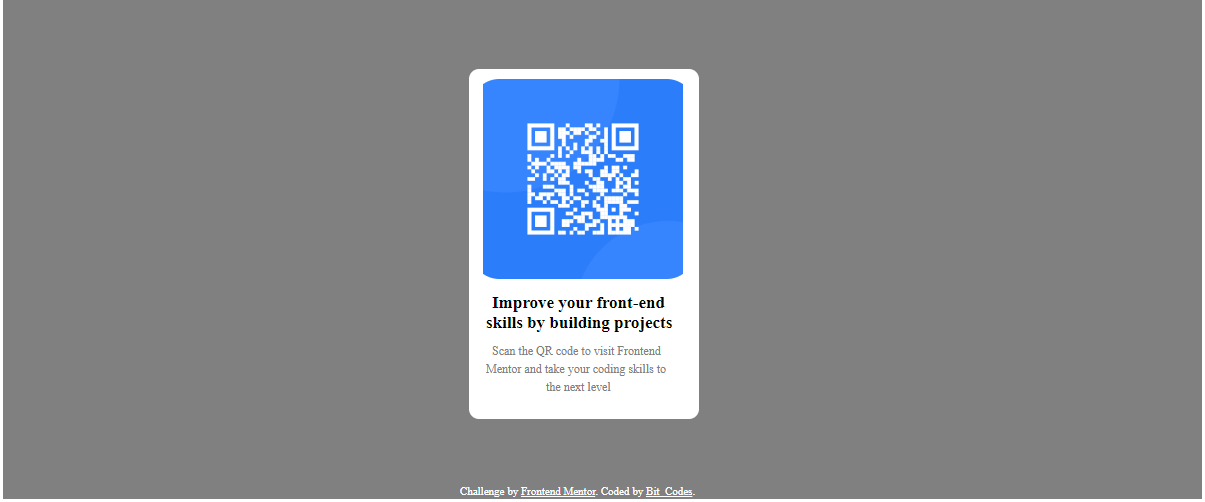
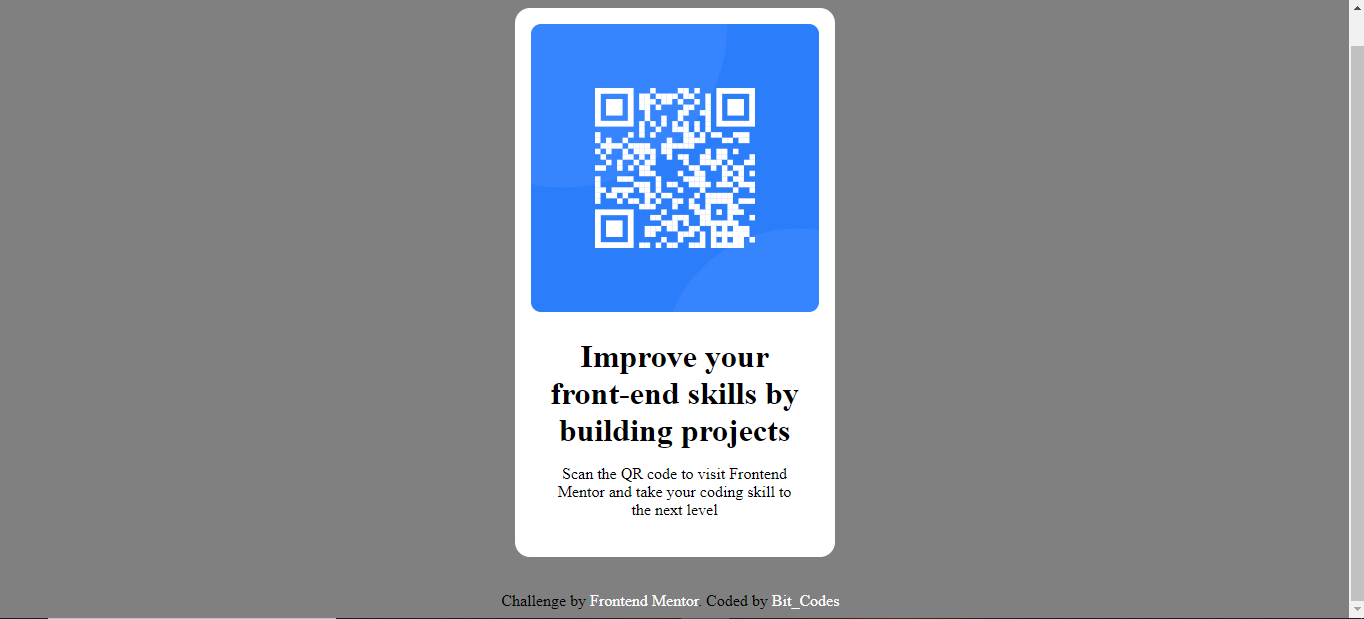
necessary adjustment made

Changed region(s): [[0.3685, 0.0, 0.6141, 0.9263], [0.0, 0.0, 1.0, 1.0]]

diff --git a/index.html b/index.html
@@ -10,91 +10,71 @@
 
   <title>Frontend Mentor | QR code component</title>
 
-  <!-- Feel free to remove these styles or customise in your own stylesheet 👍 -->
   <style>
-    .attribution {
-      font-size: 11px;
+    body {
+      background-color: gray;
+    }
+
+    .container {
+      min-height: 100vh;
+      display: flex;
+      align-items: center;
+      justify-content: center;
+    }
+
+    .card {
+      max-width: 20rem;
+      background-color: hsl(0, 0%, 100%);
+      border-radius: 0.938rem;
       text-align: center;
     }
 
-    .attribution a {
-      color: hsl(228, 45%, 44%);
-      position: relative;
-    }
-
-    .grey-div {
+    .card-image {
       width: 90%;
-      height: 500px;
-      background-color: grey;
-      margin: auto;
-      margin-top: 50px;
-      position: relative;
+      border-radius: 0.625rem;
+      margin: 5%;
     }
 
-    .white-div {
-      width: 230px;
-      height: 350px;
-      background-color: white;
-      position: relative;
-      bottom: 430px;
-      left: 40%;
-      border-radius: 10px;
-      position: relative;
+    .card-heading {
+      margin: 2% 5%;
+      padding: 0% 5%;
     }
 
-
-    img {
-      height: 200px;
-      width: 220px;
-      object-fit: contain;
-      position: relative;
-      bottom: 770px;
-      left: 537px;
-      border-radius: 12%;
+    .card-description {
+      margin: 5% 5% 12%;
+      padding: 0% 5%;
     }
 
-    .text {
-      height: fit-content;
-      width: 215px;
-      position: relative;
-      left: 550px;
-      bottom: 760px
+    footer {
+      margin: 0% 37%;
+      min-width: 80%;
+    }
+
+    a {
+      text-decoration: none;
+      color: white;
     }
   </style>
+
 </head>
 
-<body style="height: 50vh;">
-  <div class="grey-div">
-  </div>
-  <div class="white-div">
-  </div>
+<body>
+  <main class="container">
+    <div class="card">
+      <img class="card-image" src="./images/image-qr-code.png" alt="QR Code for frontendmentor.io">
+      <h1 class="card-heading">Improve your front-end skills by building projects</h1>
+      <p class="card-description">Scan the QR code to visit Frontend Mentor and take your coding skill to the next level
+      </p>
+    </div>
+
+  </main>
+  <footer>
+    <div class="attribution">
+      Challenge by <a href="https://www.frontendmentor.io?ref=challenge" target="_blank">Frontend
+        Mentor</a>.
+      Coded by <a href="https://github.com/Manifoldbit" target="_blank">Bit_Codes</a>
+    </div>
+  </footer>
 
 
-
-  <img src="./images/image-qr-code.png" alt="">
-
-  <div class="text">
-    <b id="" style="margin-left: 6px; font-size:17px;">Improve your front-end
-    </b><br>
-    <b id="" style="font-size: 17px;">skills by building projects</b><br><br>
-
-  </div>
-
-  <div style="position: relative; width:fit-content; height: fit-content;  bottom: 770px; left: 550px">
-    <label style="font-size: 12px; margin-left: 6px; color: grey;">Scan the QR code to visit Frontend</label><br>
-    <label style="font-size: 12px; color: grey;">Mentor and take your coding skills to</label><br>
-    <label style="font-size: 12px; margin-left: 60px; color: grey;">the next level</label>
-  </div>
-
-
-
-
-
-  <div class="attribution" style="position: relative; bottom: 680px; color: white; margin-left: -50px;">
-    Challenge by <a href="https://www.frontendmentor.io?ref=challenge" target="_blank" style="color:white">Frontend
-      Mentor</a>.
-    Coded by <a href="https://github.com/Manifoldbit" style="color:white" target="_blank">Bit_Codes</a>.
-  </div>
 </body>
-
-</html>

diff --git a/README.md b/README.md
@@ -27,11 +27,11 @@ This is a solution to the [QR code component challenge on Frontend Mentor](https
 ### What I learned
 
 ```html
-<b>This html element makes my text bold</b>
+<main>This html element shows the where our main content will be added to</main>
 ```
 ```css
 .proud-of-this-css {
-  height:fit-content;
+  min-height: 100vh;
 }
 ```
 
